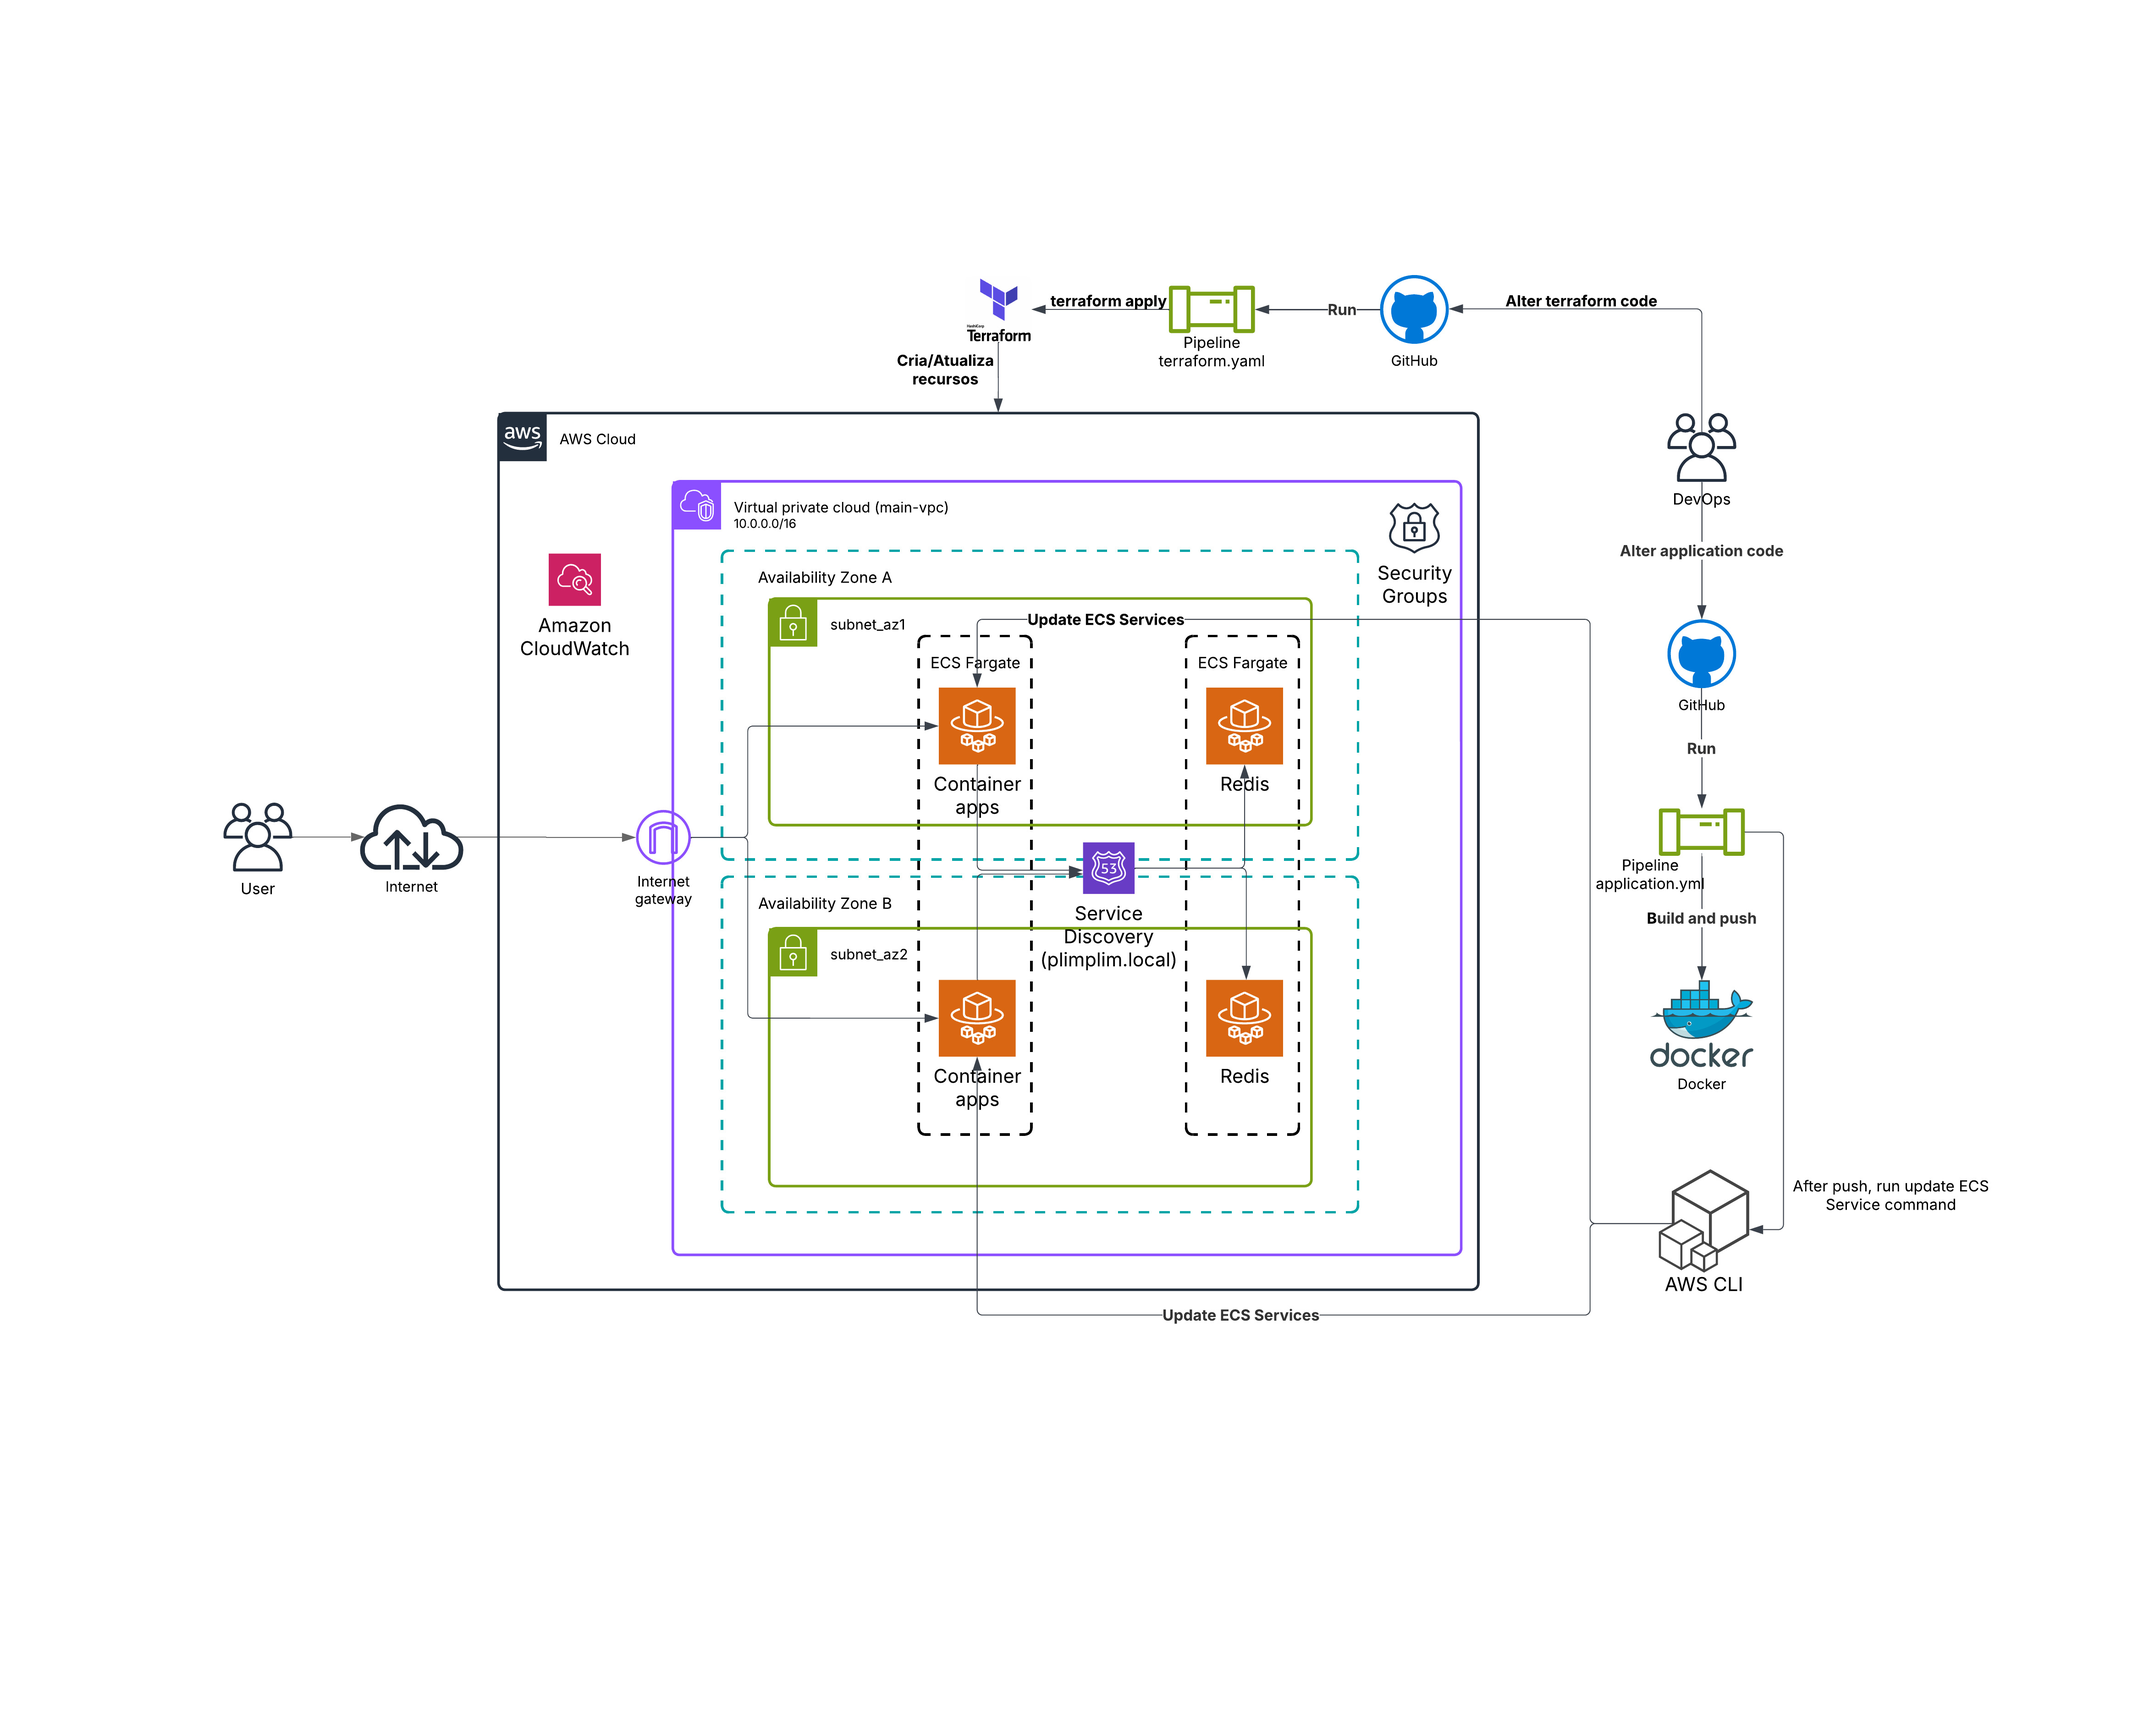
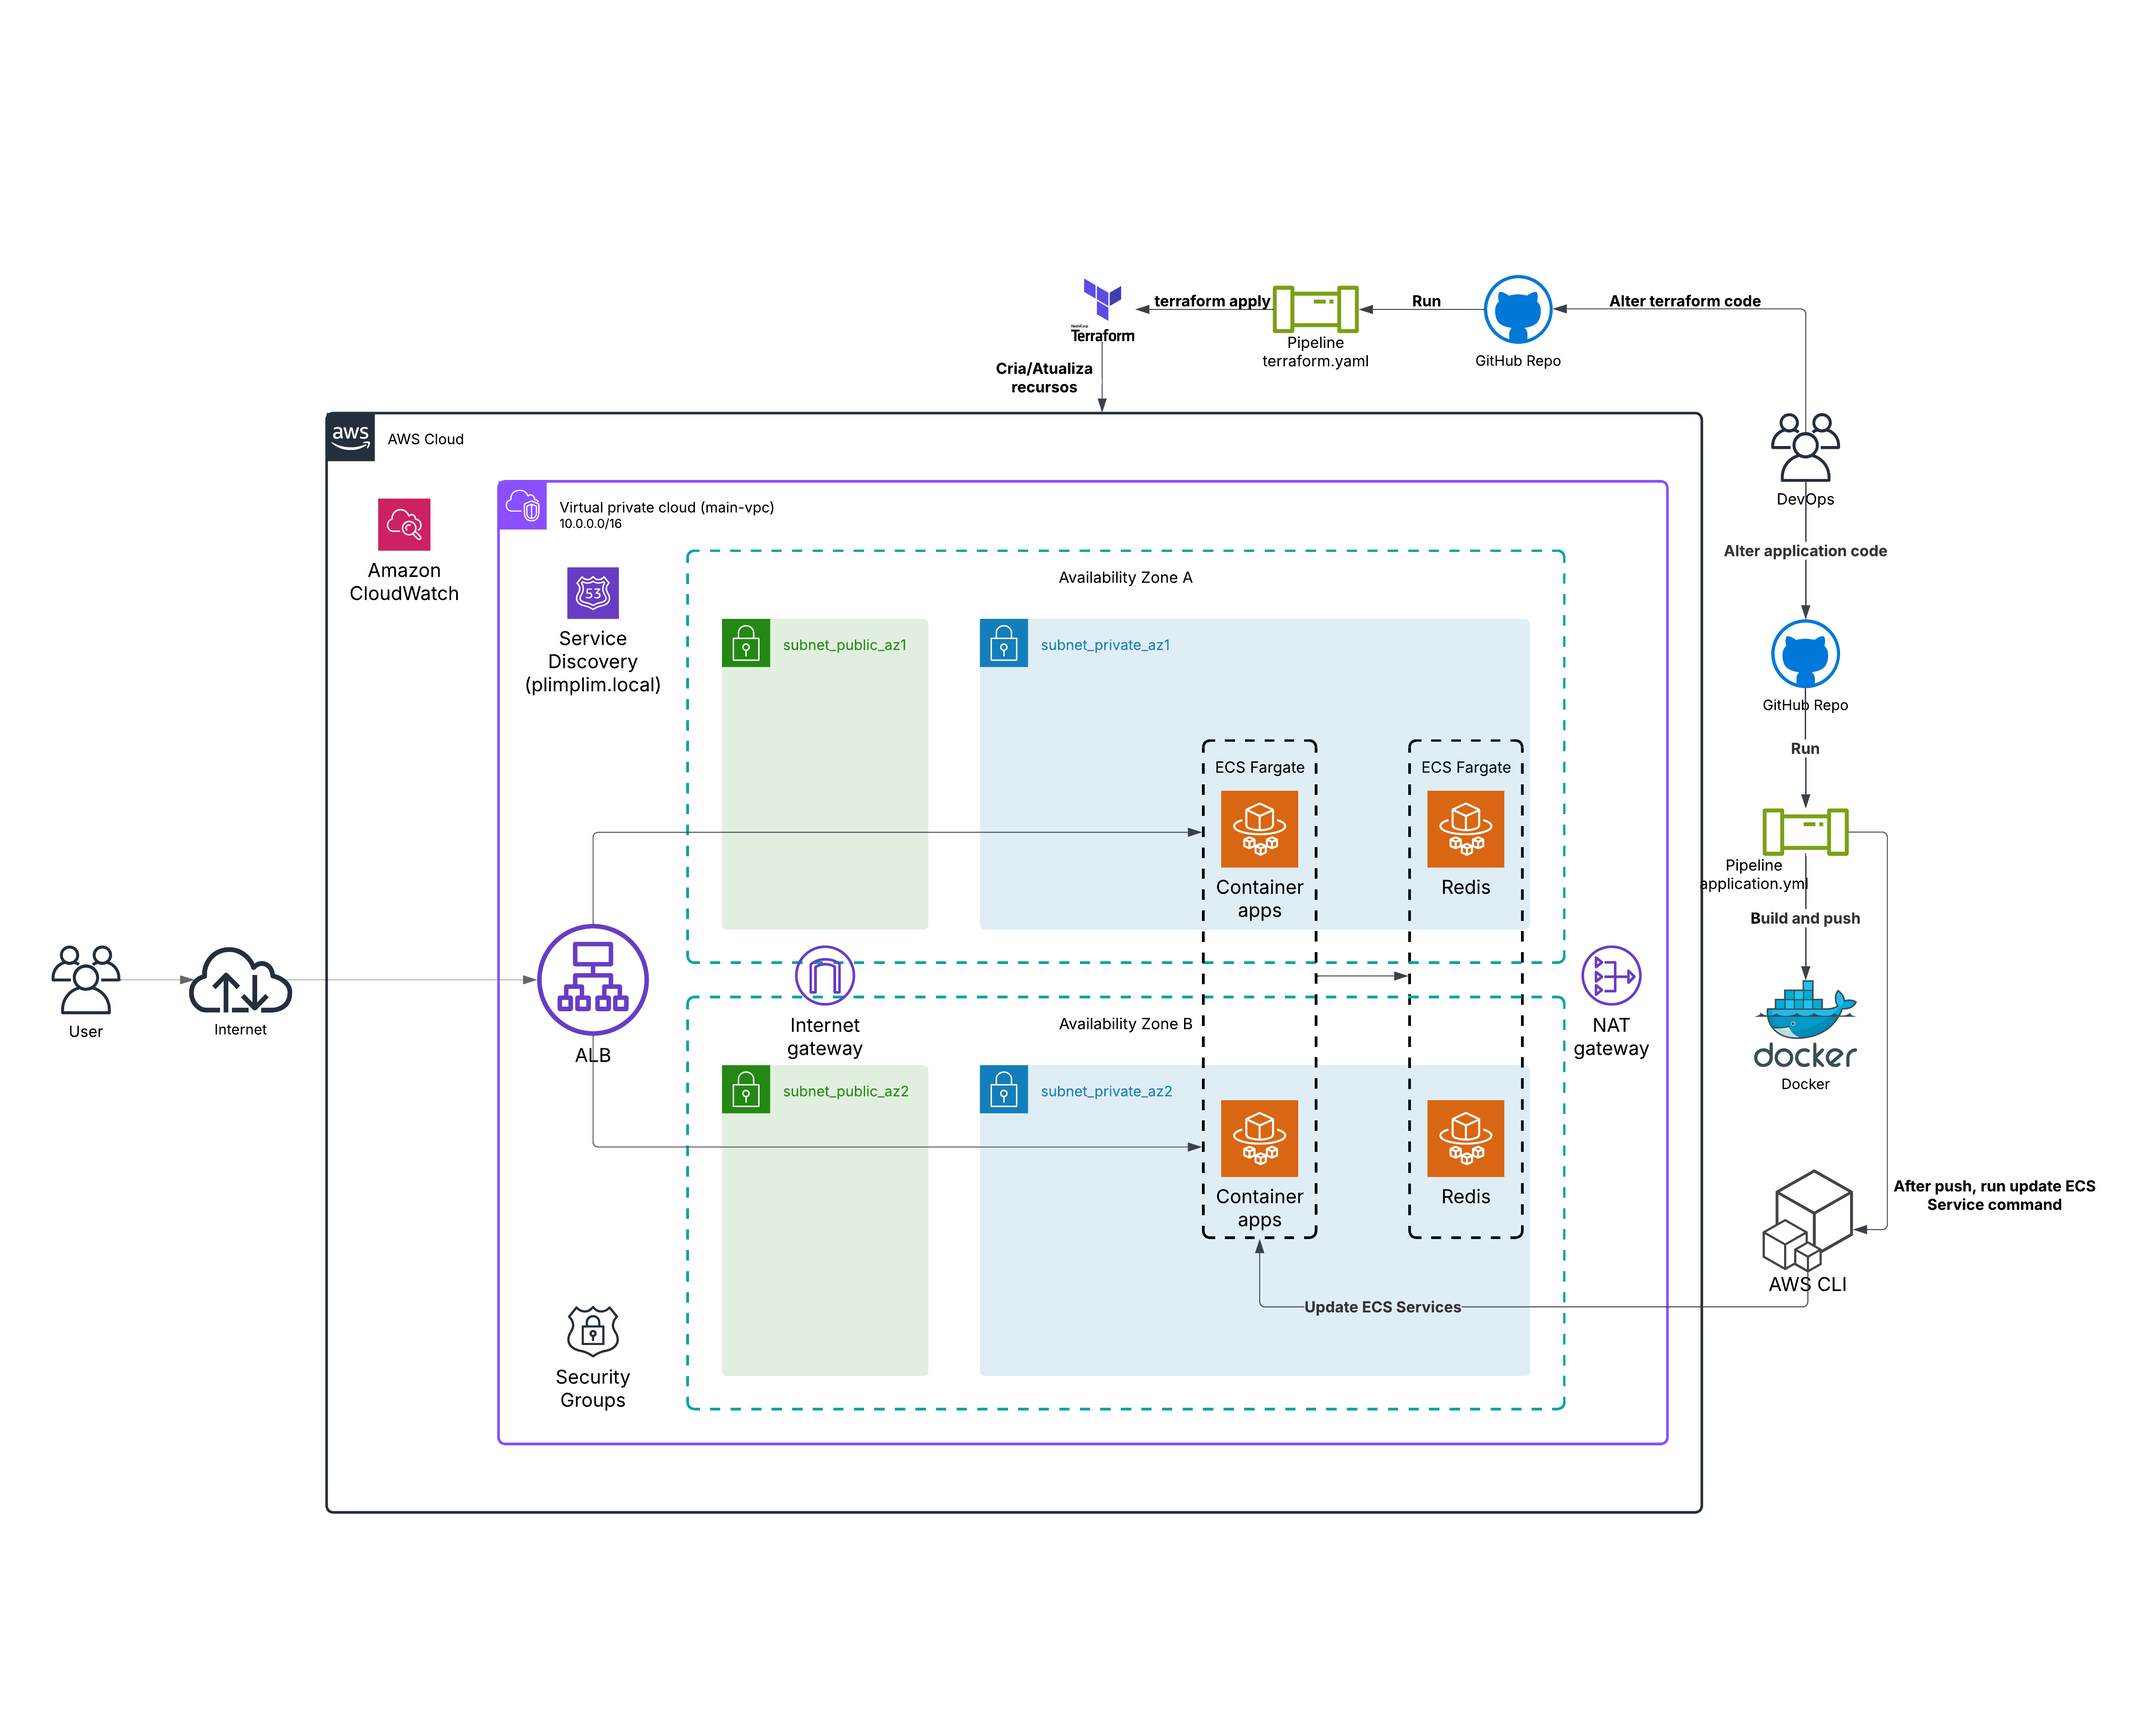
feat: Improving readme and diagram

diff --git a/README.md b/README.md
@@ -24,18 +24,17 @@ Este script oferece opções para iniciar os containers, visualizar logs, destru
 
 ##  **Execução na nuvem**
 
-O cliente acessa as aplicações pela internet, passando pelo Internet Gateway (IGW), que direciona o tráfego para o IP externo da infraestrutura solicitada. Quando um request é feito para uma das rotas, a aplicação consulta o Redis para verificar se a resposta já está em cache.
+O cliente acessa as aplicações pela internet, utilizando as rotas /fixed e /time. O tráfego é recebido diretamente pelo Application Load Balancer (ALB), que atua como a camada de borda da arquitetura. Cada aplicação possui seu próprio ALB, configurado para receber requisições na porta 80 e fazer o port mapping para a porta 5000 dos containers, onde as aplicações estão sendo executadas.
 
-O tempo de cache varia conforme a aplicação: na aplicação Python, o cache é válido por 10 segundos, enquanto na aplicação Go, o cache dura 1 minuto. Se um novo request for feito dentro desses intervalos, a aplicação retorna a resposta armazenada no Redis. Fora desse período, a aplicação busca as informações atualizadas, armazena-as novamente no cache e as retorna ao usuário.
+Quando um request é feito para uma das rotas, o ALB direciona o tráfego para o grupo de destino (target group) correspondente, onde os containers estão rodando. A aplicação então consulta o Redis para verificar se a resposta já está em cache. O tempo de cache varia conforme a aplicação: na aplicação Python, o cache é válido por 10 segundos, enquanto na aplicação Go, o cache dura 1 minuto. Se um novo request for feito dentro desses intervalos, a aplicação retorna a resposta armazenada no Redis. Caso o cache esteja expirado, a aplicação busca as informações atualizadas, armazena-as novamente no cache e as retorna ao usuário.
 
-As aplicações são dependentes do Redis. Se elas não conseguirem se comunicar com o servidor de cache, entram em um loop de tentativas de reconexão antes de processar qualquer requisição. Isso garante que o cache seja priorizado, mas pode impactar a disponibilidade das aplicações caso o Redis não seja criado.
+As aplicações são altamente dependentes do Redis. Se não conseguirem se comunicar com o servidor de cache, entram em um loop de tentativas de reconexão antes de processar qualquer requisição. Essa abordagem garante que o cache seja priorizado, mas impacta a disponibilidade das aplicações caso o Redis não esteja disponível ou não seja criado corretamente.
 
 ![Arquitetura do Projeto](Diagram.jpeg)
 
-
 A infraestrutura na nuvem foi provisionada utilizando Terraform, garantindo um ambiente replicável e de fácil manutenção. Abaixo estão os principais recursos provisionados:
 
-- **Rede**: VPC, Subnets, Route Tables e Security Groups.
+- **Rede**: VPC, Load Balancers, Subnets, Route Tables e Security Groups.
 - **Service Discovery**: Resolução de nomes internos para comunicação entre serviços.
 - **Cache**: Redis para armazenamento temporário de respostas das aplicações.
 - **Compute**: ECS Fargate para execução das aplicações.
@@ -61,20 +60,25 @@ Certifique-se de ter as seguintes ferramentas instaladas antes de executar o pro
 
 ---
 
-##  **Pipeline de aplicações**
+##  **CI/CD**
 
-Para facilitar a implementação de mudanças e garantir a entrega contínua, foi criada uma pipeline de CI/CD automatizada. Essa pipeline segue um fluxo simplificado, focando na construção, publicação e atualização dos ECS Services. Ela só irá ser executada quando os códigos das pastas app1-python e app2-go sofrerem alguma alteração
+###  **Pipeline das aplicações**
+
+Para facilitar a implementação de mudanças e garantir a entrega contínua, foi criada uma pipeline de CI/CD automatizada. Essa pipeline segue um fluxo simplificado, focando na construção, publicação e atualização dos ECS Services. Ela só irá ser executada quando os códigos das pastas app1-python e app2-go sofrerem alguma alteração.
 
 - **Build (Construção das Imagens Docker)**: As imagens Docker das aplicações são construídas a partir dos Dockerfiles definidos no projeto.
 - **Push (Publicação no Docker Hub)**: Após a construção, as imagens são enviadas para o Docker Hub, garantindo que estejam disponíveis para uso em qualquer ambiente.
-- **Update (Atualização da Infraestrutura Existente)**: Caso a infraestrutura já esteja implantada (por exemplo, no ECS Fargate na AWS), a pipeline atualiza os serviços com as novas imagens, garantindo que as mudanças sejam aplicadas sem interrupções.
+- **Update (Atualização da Infraestrutura Existente)**: A pipeline atualiza os serviços com as novas imagens, usando a estratégia rolling update para garantir que as mudanças sejam aplicadas sem gerar indisponibilidade.
 
-##  **Pipeline de infraestrutura**
+###  **Pipeline de infraestrutura**
 
 Para garantir que a infraestrutura esteja sempre alinhada com o código versionado no Git, foi criada uma pipeline adicional. Essa pipeline foca na validação e aplicação das mudanças de infraestrutura definidas nos módulos Terraform. Ela só irá ser executada quando os códigos da pasta terraform sofrerem alguma alteração
 
 - **Validação (Validate)**: Valida a sintaxe e a configuração dos arquivos Terraform para garantir que não há erros.
+- **Planejamento (Plan)**: Planeja as mudanças intendidads na infraestrutura, comparando o que existe na AWS com o que está no tfstate salvo no bucket.
 - **Aplicação (Apply)**: Aplica as mudanças na infraestrutura, garantindo que ela esteja de acordo com o código versionado no Git.
+
+---
 
 ##  **Pontos de Melhoria Identificados**
 
@@ -84,21 +88,18 @@ Para garantir que a infraestrutura esteja sempre alinhada com o código versiona
 - Implementar autenticação no Redis, reforçando a segurança contra acessos não autorizados.
 - Utilizar um cofre de credenciais, como AWS Secrets Manager ou HashiCorp Vault, para armazenar senhas e segredos sensíveis de forma segura, substituindo os GitHub Secrets.
 
-
 ###  **Infraestrutura e Disponibilidade**
 
-- Adicionar um Load Balancer, distribuindo requisições de forma equilibrada entre os containers para melhorar escalabilidade e disponibilidade
 - Criar um DNS externo, facilitando o acesso às aplicações e permitindo a implementação de SSL para comunicação segura.
 - Configurar Auto Scaling (ASG) no ECS, garantindo elasticidade e ajuste automático da quantidade de tasks conforme demanda.
 
 ###  **Monitoramento e Confiabilidade**
 
 - Implementar alertas no CloudWatch, para detecção proativa de falhas e incidentes críticos.
-- Adicionar health checks nos containers, garantindo que apenas instâncias saudáveis recebam tráfego.
 
 ###  **Melhoria na Arquitetura do Terraform**
 
-- Refatorar a estrutura dos módulos Terraform, criando módulos dedicados para IAM, CloudWatch e outros componentes atualmente definidos diretamente.
+- Refatorar a estrutura dos módulos Terraform, criando módulos dedicados para IAM, CloudWatch, ALB e outros componentes atualmente definidos diretamente.
 
 ###  **Processos e Ciclo de Desenvolvimento**
 
